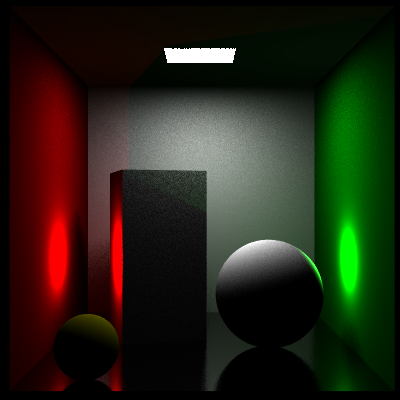
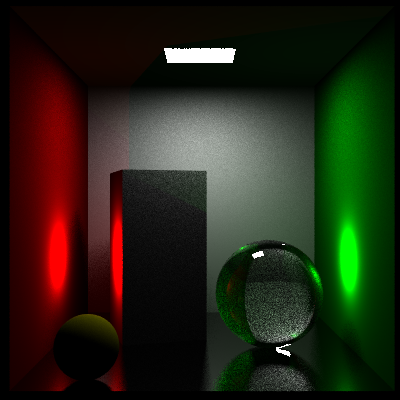
Imaged added

Changed region(s): [[0.54, 0.6, 0.81, 0.99], [0.27, 0.96, 0.33, 0.99]]

diff --git a/rt/integrators/recraytrace.cpp b/rt/integrators/recraytrace.cpp
@@ -51,6 +51,8 @@ RGBColor RecursiveRayTracingIntegrator::getRecursiveRadiance(const Ray& ray, int
         
         if(sampling == Material::SAMPLING_ALL || sampling == Material::SAMPLING_SECONDARY){
             Material::SampleReflectance sampleReflectance = intersection.solid->material->getSampleReflectance(texPoint, intersection.normal(),  -ray.d);
+            //Offset in the direction of sampleReflectance, as this would handle all cases 
+            //refraction and reflection when entering or leaving the surface
             Ray secondaryRay(intersection.hitPoint() + sampleReflectance.direction * offset, sampleReflectance.direction, intersection.ray.time);
             RGBColor radiance = getRecursiveRadiance(secondaryRay, depth);
             totalRadiance =  totalRadiance + sampleReflectance.reflectance * radiance; 
